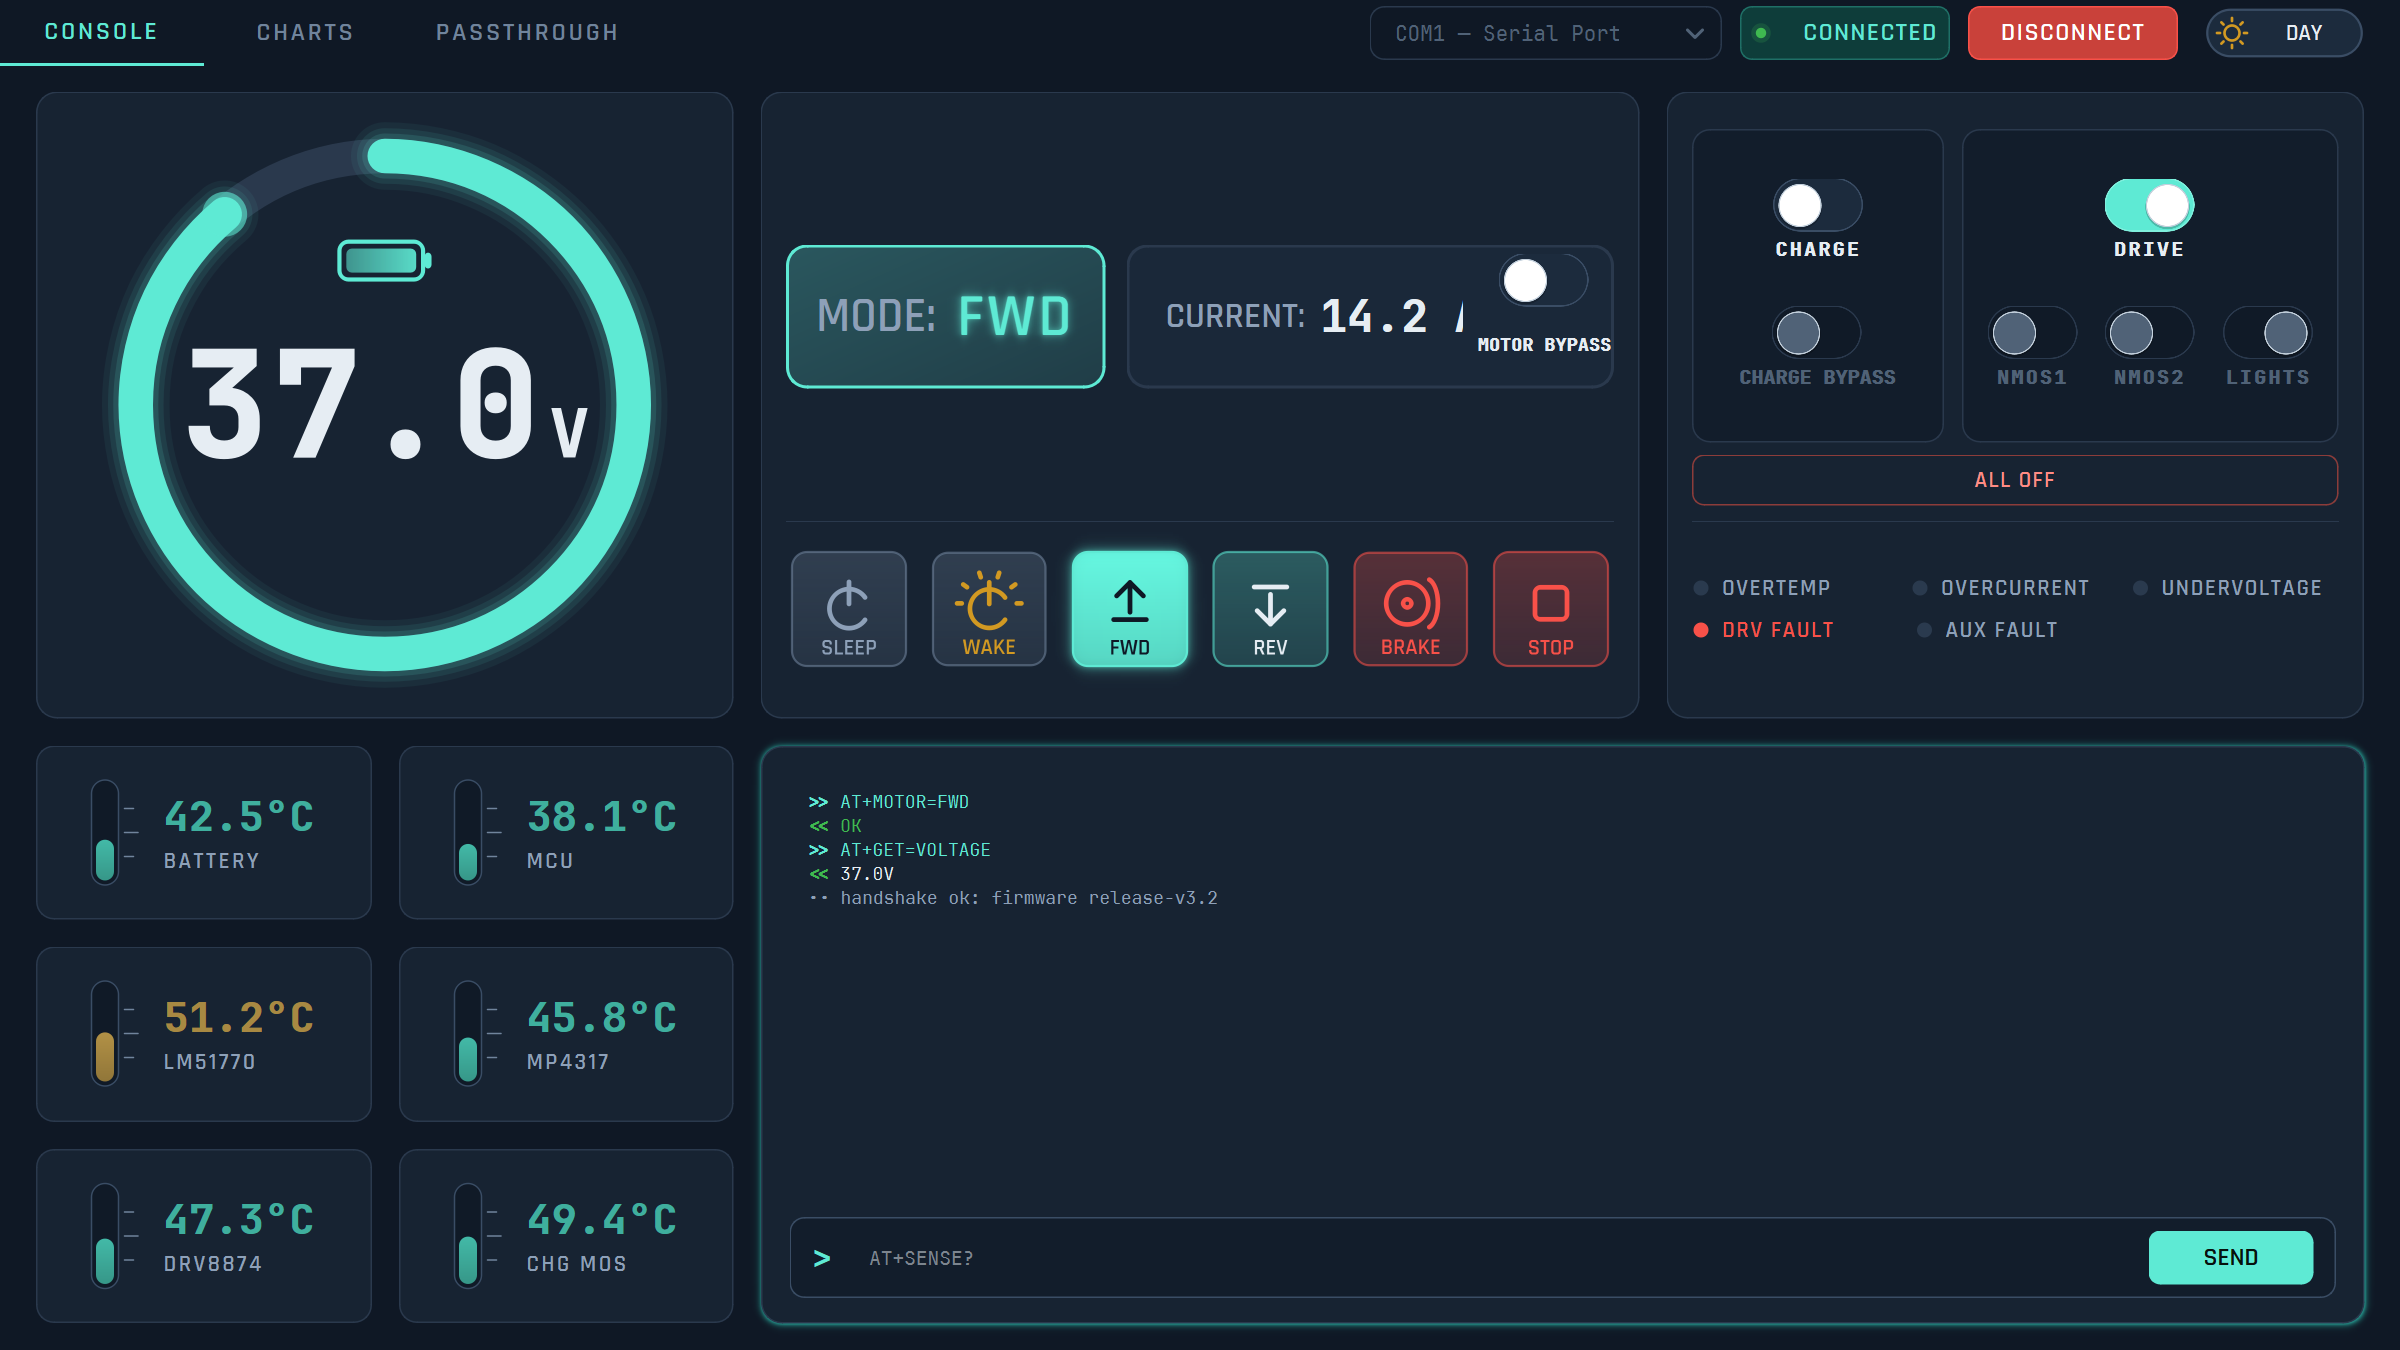
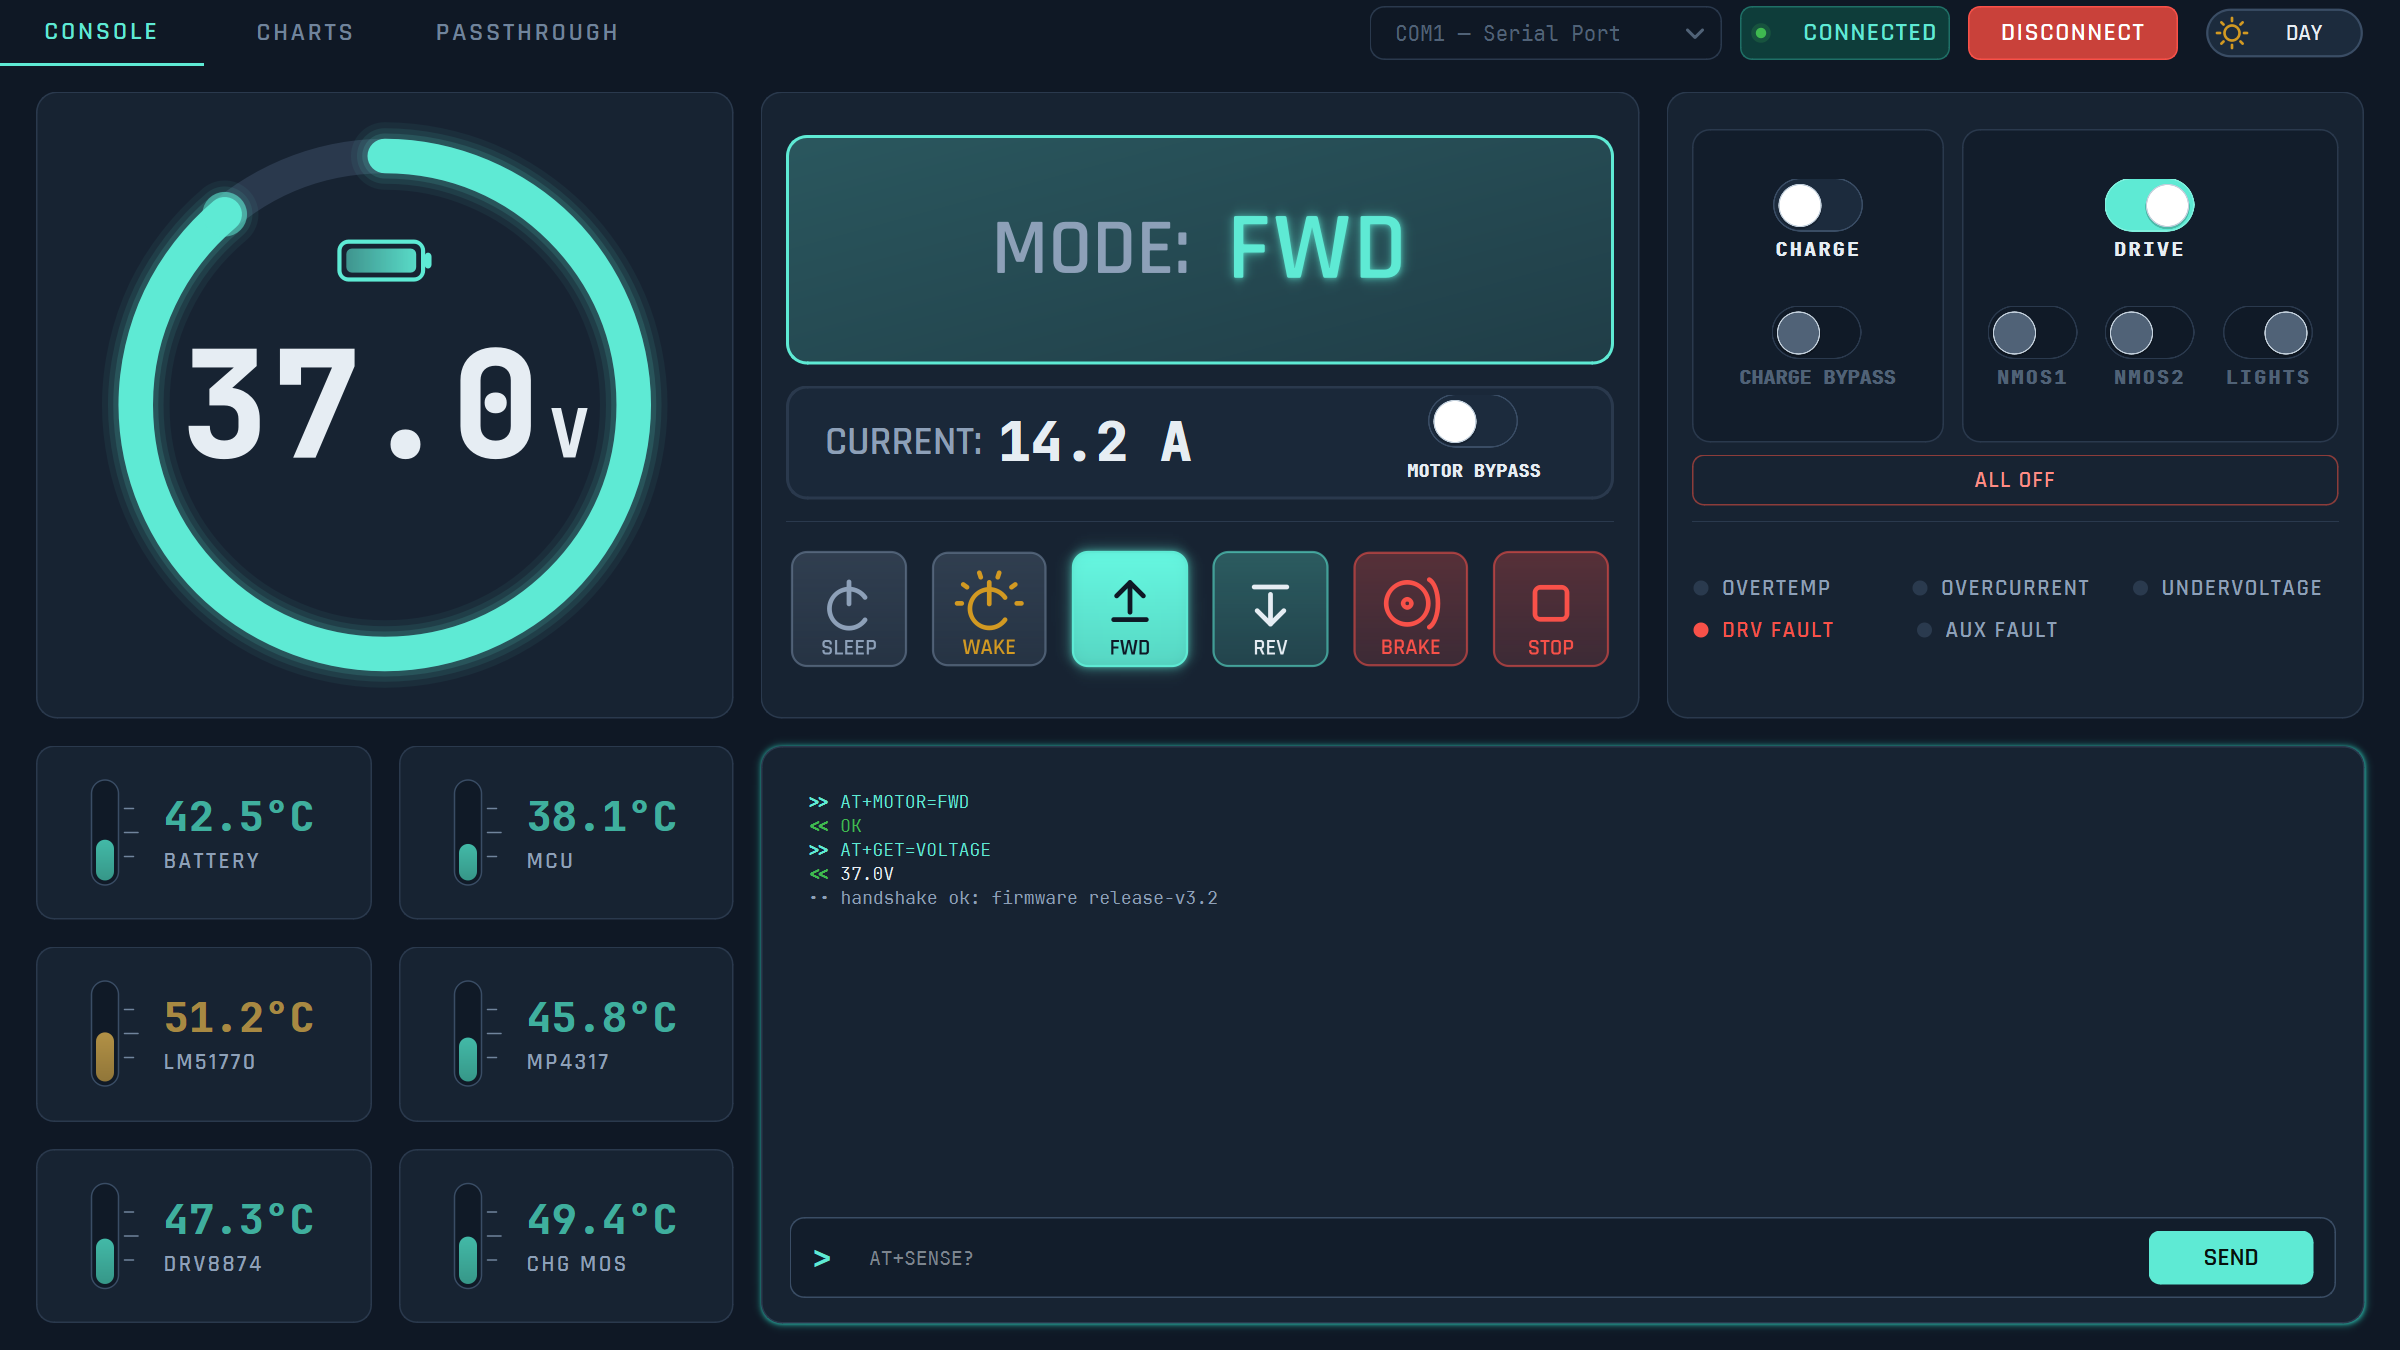
ui(console): revert motor card to original stacked badges, keep power card mirror layout

Changed region(s): [[0.3125, 0.0933, 0.6875, 0.3733]]

diff --git a/stem_hub_host/ui/widgets/motor_card.py b/stem_hub_host/ui/widgets/motor_card.py
@@ -167,20 +167,20 @@ class _ModeBadge(QFrame):
     def __init__(self, parent=None) -> None:
         super().__init__(parent)
         self._mode: str | None = None
-        self.setMinimumHeight(96)
+        self.setMinimumHeight(130)
         self.setSizePolicy(
             QSizePolicy.Policy.Expanding,
             QSizePolicy.Policy.Expanding,
         )
         self._apply_surface(theme.BORDER, active=False)
         lay = QHBoxLayout(self)
-        lay.setContentsMargins(18, 4, 18, 4)
-        lay.setSpacing(14)
+        lay.setContentsMargins(28, 8, 28, 8)
+        lay.setSpacing(24)
         lay.addStretch(1)
 
         self._label = QLabel("MODE:")
         f_lbl = QFont(theme.FONT_DISPLAY)
-        f_lbl.setPointSize(24)
+        f_lbl.setPointSize(40)
         f_lbl.setBold(True)
         self._label.setFont(f_lbl)
         self._label.setStyleSheet(
@@ -190,7 +190,7 @@ class _ModeBadge(QFrame):
 
         self._value = QLabel("----")
         f_val = QFont(theme.FONT_DISPLAY)
-        f_val.setPointSize(30)
+        f_val.setPointSize(48)
         f_val.setBold(True)
         self._value.setFont(f_val)
         self._value.setStyleSheet(
@@ -262,7 +262,7 @@ class _CurrentBadge(QFrame):
     def __init__(self, parent=None) -> None:
         super().__init__(parent)
         self._ma: int | None = None
-        self.setMinimumHeight(96)
+        self.setMinimumHeight(72)
         self.setSizePolicy(
             QSizePolicy.Policy.Expanding,
             QSizePolicy.Policy.Expanding,
@@ -283,7 +283,7 @@ class _CurrentBadge(QFrame):
 
         self._label = QLabel("CURRENT:")
         f_lbl = QFont(theme.FONT_DISPLAY)
-        f_lbl.setPointSize(18)
+        f_lbl.setPointSize(20)
         f_lbl.setBold(True)
         self._label.setFont(f_lbl)
         self._label.setStyleSheet(
@@ -293,7 +293,7 @@ class _CurrentBadge(QFrame):
 
         self._value = QLabel("--.- A")
         f_val = QFont(theme.FONT_MONO)
-        f_val.setPointSize(22)
+        f_val.setPointSize(26)
         f_val.setBold(True)
         self._value.setFont(f_val)
         self._value.setStyleSheet(
@@ -604,18 +604,17 @@ class MotorCard(QFrame):
             QSizePolicy.Policy.Expanding,
             QSizePolicy.Policy.Expanding,
         )
-        # 方向二: MODE + CURRENT 合并为一条水平状态栏, 按钮行成为主体.
-        content_layout = QHBoxLayout(self.upper_content)
+        content_layout = QVBoxLayout(self.upper_content)
         content_layout.setContentsMargins(0, 0, 0, 0)
         content_layout.setSpacing(theme.MOTOR_STATUS_GAP)
 
         self.mode_badge = _ModeBadge(self)
-        content_layout.addWidget(self.mode_badge, 1, Qt.AlignmentFlag.AlignVCenter)
+        content_layout.addWidget(self.mode_badge, 2)
 
         self.current_badge = _CurrentBadge(self)
         self.bypass_toggle = self.current_badge.bypass_toggle
         self.bypass_toggle.toggled.connect(self.bypass_changed)
-        content_layout.addWidget(self.current_badge, 1, Qt.AlignmentFlag.AlignVCenter)
+        content_layout.addWidget(self.current_badge, 1)
 
         upper_layout.addWidget(self.upper_content)
         outer.addWidget(self.upper_region, theme.CARD_UPPER_REGION_STRETCH)

diff --git a/tests/test_output_controls.py b/tests/test_output_controls.py
@@ -13,7 +13,6 @@ from stem_hub_host.controller import Controller
 from stem_hub_host.models import FaultState, MotorState, OutputState, SenseData
 from stem_hub_host.serial_worker import SerialWorker
 from stem_hub_host.transport import FakeSerialTransport
-from stem_hub_host.ui import theme
 from stem_hub_host.ui.main_window import MainWindow
 from stem_hub_host.ui.widgets.charge_mode_card import ChargeModeCard
 from stem_hub_host.ui.widgets.motor_card import MotorCard
@@ -124,7 +123,7 @@ def test_output_switches_and_labels_are_fully_contained(
             assert widget.sizeHint().width() <= widget.width()
 
 
-def test_motor_status_bar_places_badges_side_by_side(
+def test_motor_status_bands_use_equal_vertical_spacing(
     qapp: QApplication,
 ) -> None:
     card = MotorCard()
@@ -132,26 +131,17 @@ def test_motor_status_bar_places_badges_side_by_side(
     card.show()
     qapp.processEvents()
 
-    mode_center_y = card.mode_badge.mapTo(
-        card, card.mode_badge.rect().center()
+    mode_bottom = card.mode_badge.mapTo(card, card.mode_badge.rect().bottomLeft()).y()
+    current_top = card.current_badge.mapTo(card, card.current_badge.rect().topLeft()).y()
+    current_bottom = card.current_badge.mapTo(
+        card, card.current_badge.rect().bottomLeft()
     ).y()
-    current_center_y = card.current_badge.mapTo(
-        card, card.current_badge.rect().center()
-    ).y()
-    assert abs(mode_center_y - current_center_y) <= 2
-
-    gap = (
-        card.current_badge.mapTo(card, card.current_badge.rect().topLeft()).x()
-        - card.mode_badge.mapTo(card, card.mode_badge.rect().topRight()).x()
-    )
-    assert theme.MOTOR_STATUS_GAP - 2 <= gap <= theme.MOTOR_STATUS_GAP + 2
-
-    assert card.mode_badge.height() == card.current_badge.height()
     divider_top = card.divider.mapTo(card, card.divider.rect().topLeft()).y()
-    badge_bottom = card.mode_badge.mapTo(
-        card, card.mode_badge.rect().bottomLeft()
-    ).y()
-    assert badge_bottom < divider_top
+
+    mode_to_status = current_top - mode_bottom
+    status_to_divider = divider_top - current_bottom
+    assert abs(mode_to_status - status_to_divider) <= 2
+    assert 14 <= mode_to_status <= 16
 
     card.close()
     card.deleteLater()

diff --git a/tests/test_widget_states.py b/tests/test_widget_states.py
@@ -57,7 +57,7 @@ def semantic_sense() -> SenseData:
 
 def test_motor_buttons_follow_confirmed_mode(qapp: QApplication) -> None:
     card = MotorCard()
-    assert card.mode_badge.height() == 96
+    assert card.mode_badge.height() == 130
     card.update_state("REV", 1200, 0, 0)
 
     assert card.buttons["REV"].isChecked()
@@ -84,14 +84,14 @@ def test_motor_status_surface_combines_current_and_bypass(
         card.current_badge,
         card.bypass_toggle.rect().center(),
     ).x()
+    expected_center = card.current_badge.width() * 5 / 6
     region_center = card.current_badge.bypass_region.geometry().center().x()
     label_center = card.current_badge.bypass_label.mapTo(
         card.current_badge,
         card.current_badge.bypass_label.rect().center(),
     ).x()
 
-    # bypass 始终偏右 (读数最小宽度会把它推向右侧, 不强制固定比例)
-    assert bypass_center > card.current_badge.width() * 2 / 3
+    assert abs(bypass_center - expected_center) <= 3
     assert abs(bypass_center - region_center) <= 1
     assert abs(label_center - bypass_center) <= 2
 
